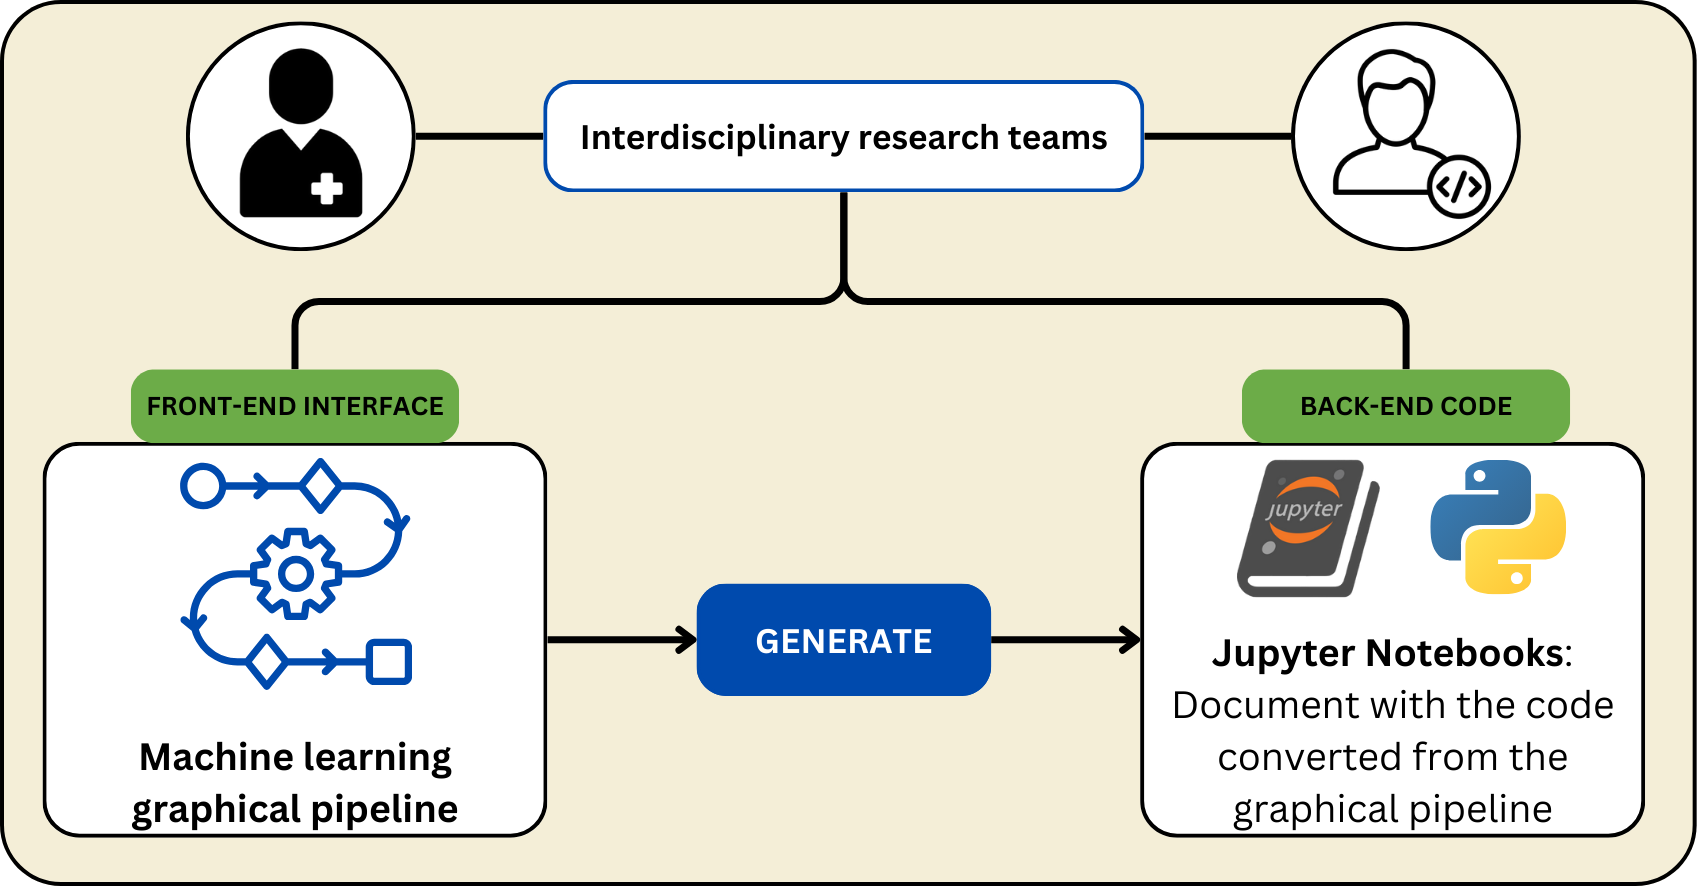
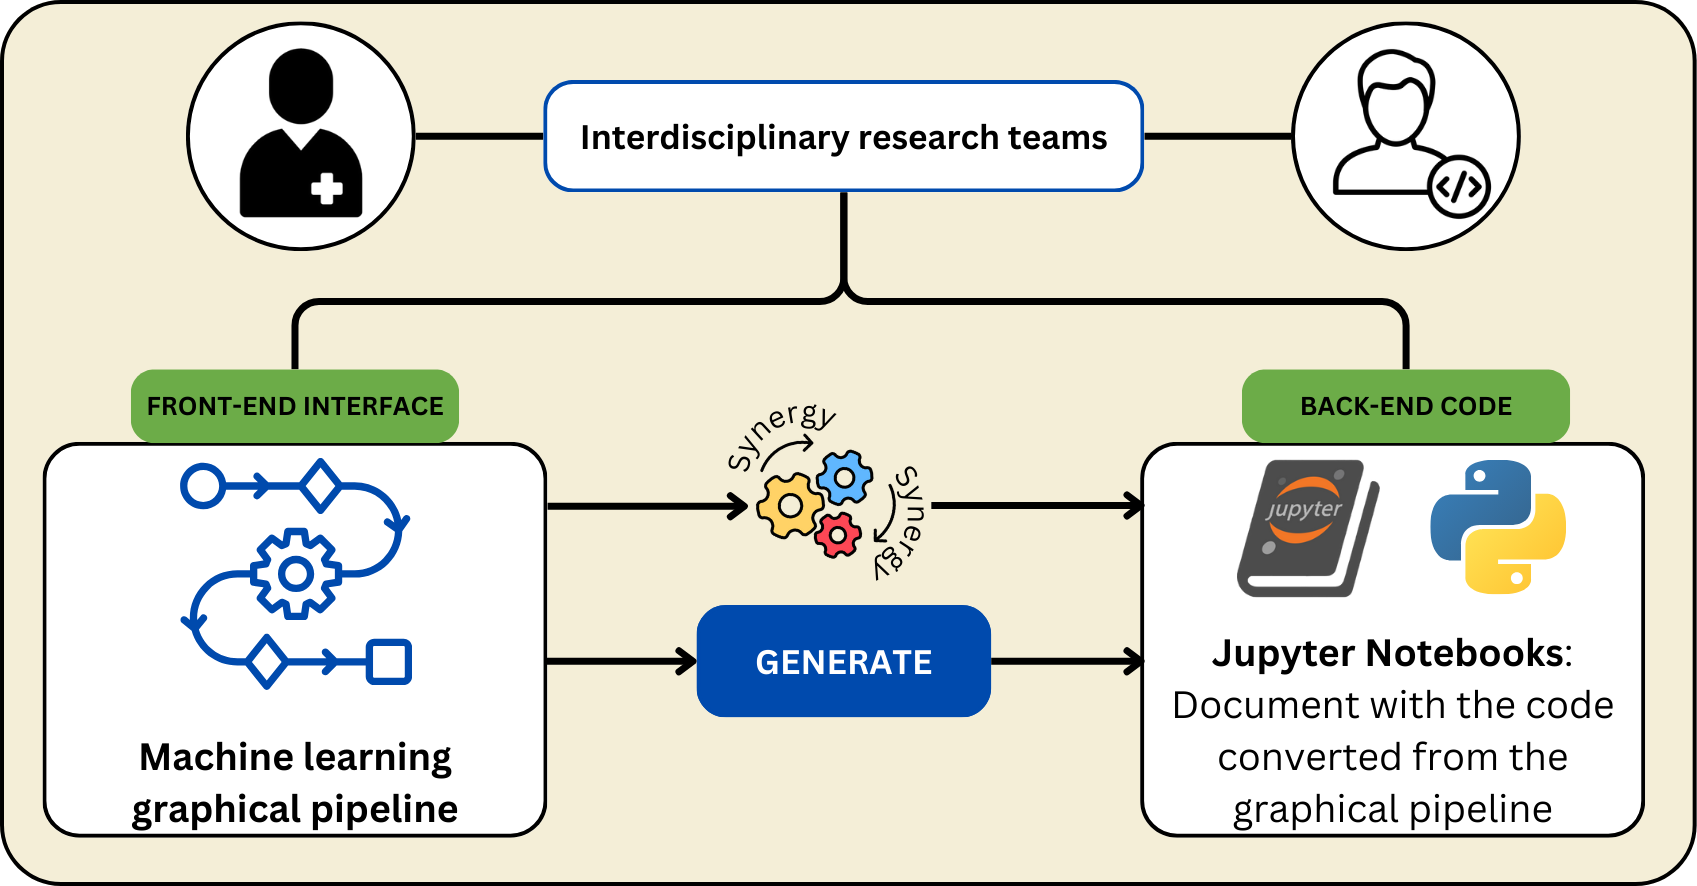
Updated code generation figure to add synergy and highlighted some text

Changed region(s): [[0.3123, 0.4571, 0.6871, 0.8228], [0.3123, 0.7009, 0.406, 0.7619]]

diff --git a/README.md b/README.md
@@ -24,8 +24,8 @@
 - [MEDomicsLab Components](#medomicslab-components)
 - [MEDomicsLab in Action](#medomicslab-in-action)
 - [Installation and Usage](#installation-and-usage)
-- [Explore Documentation](#explore-documentation)
-- [Engage in MEDomicsLab](#engage-in-medomicslab)
+  - [Explore Documentation](#explore-documentation)
+  - [Engage in MEDomicsLab](#engage-in-medomicslab)
 - [Acknowledgement](#acknowledgement)
 
 
@@ -47,7 +47,7 @@ of biological processes.
 </div>
 
 **The end-goal** is to give researchers the ability to leverage diverse 
-data types contributing to more personalized and effective treatment models by enhancing the synergy between computer scientists and clinical researchers, in particular, through the code generation feature that allows for the automatic generation of Python code from the graphically created pipelines as depicted below.
+data types contributing to more personalized and effective treatment models **by enhancing the synergy between computer scientists and clinical researchers**, in particular, through the code generation feature that allows for the automatic generation of Python code from the graphically created pipelines as depicted below.
 
 <div align="center">
   <picture width="600">
@@ -113,7 +113,7 @@ Explore our [contribution page](https://medomics-udes.gitbook.io/medomicslab-doc
 
 <img src="./resources/ContributingTools.png"/>
 
-### Acknowledgement
+## Acknowledgement
 
 This project relies on the following open-source packages, and we are grateful to their developers:
 
